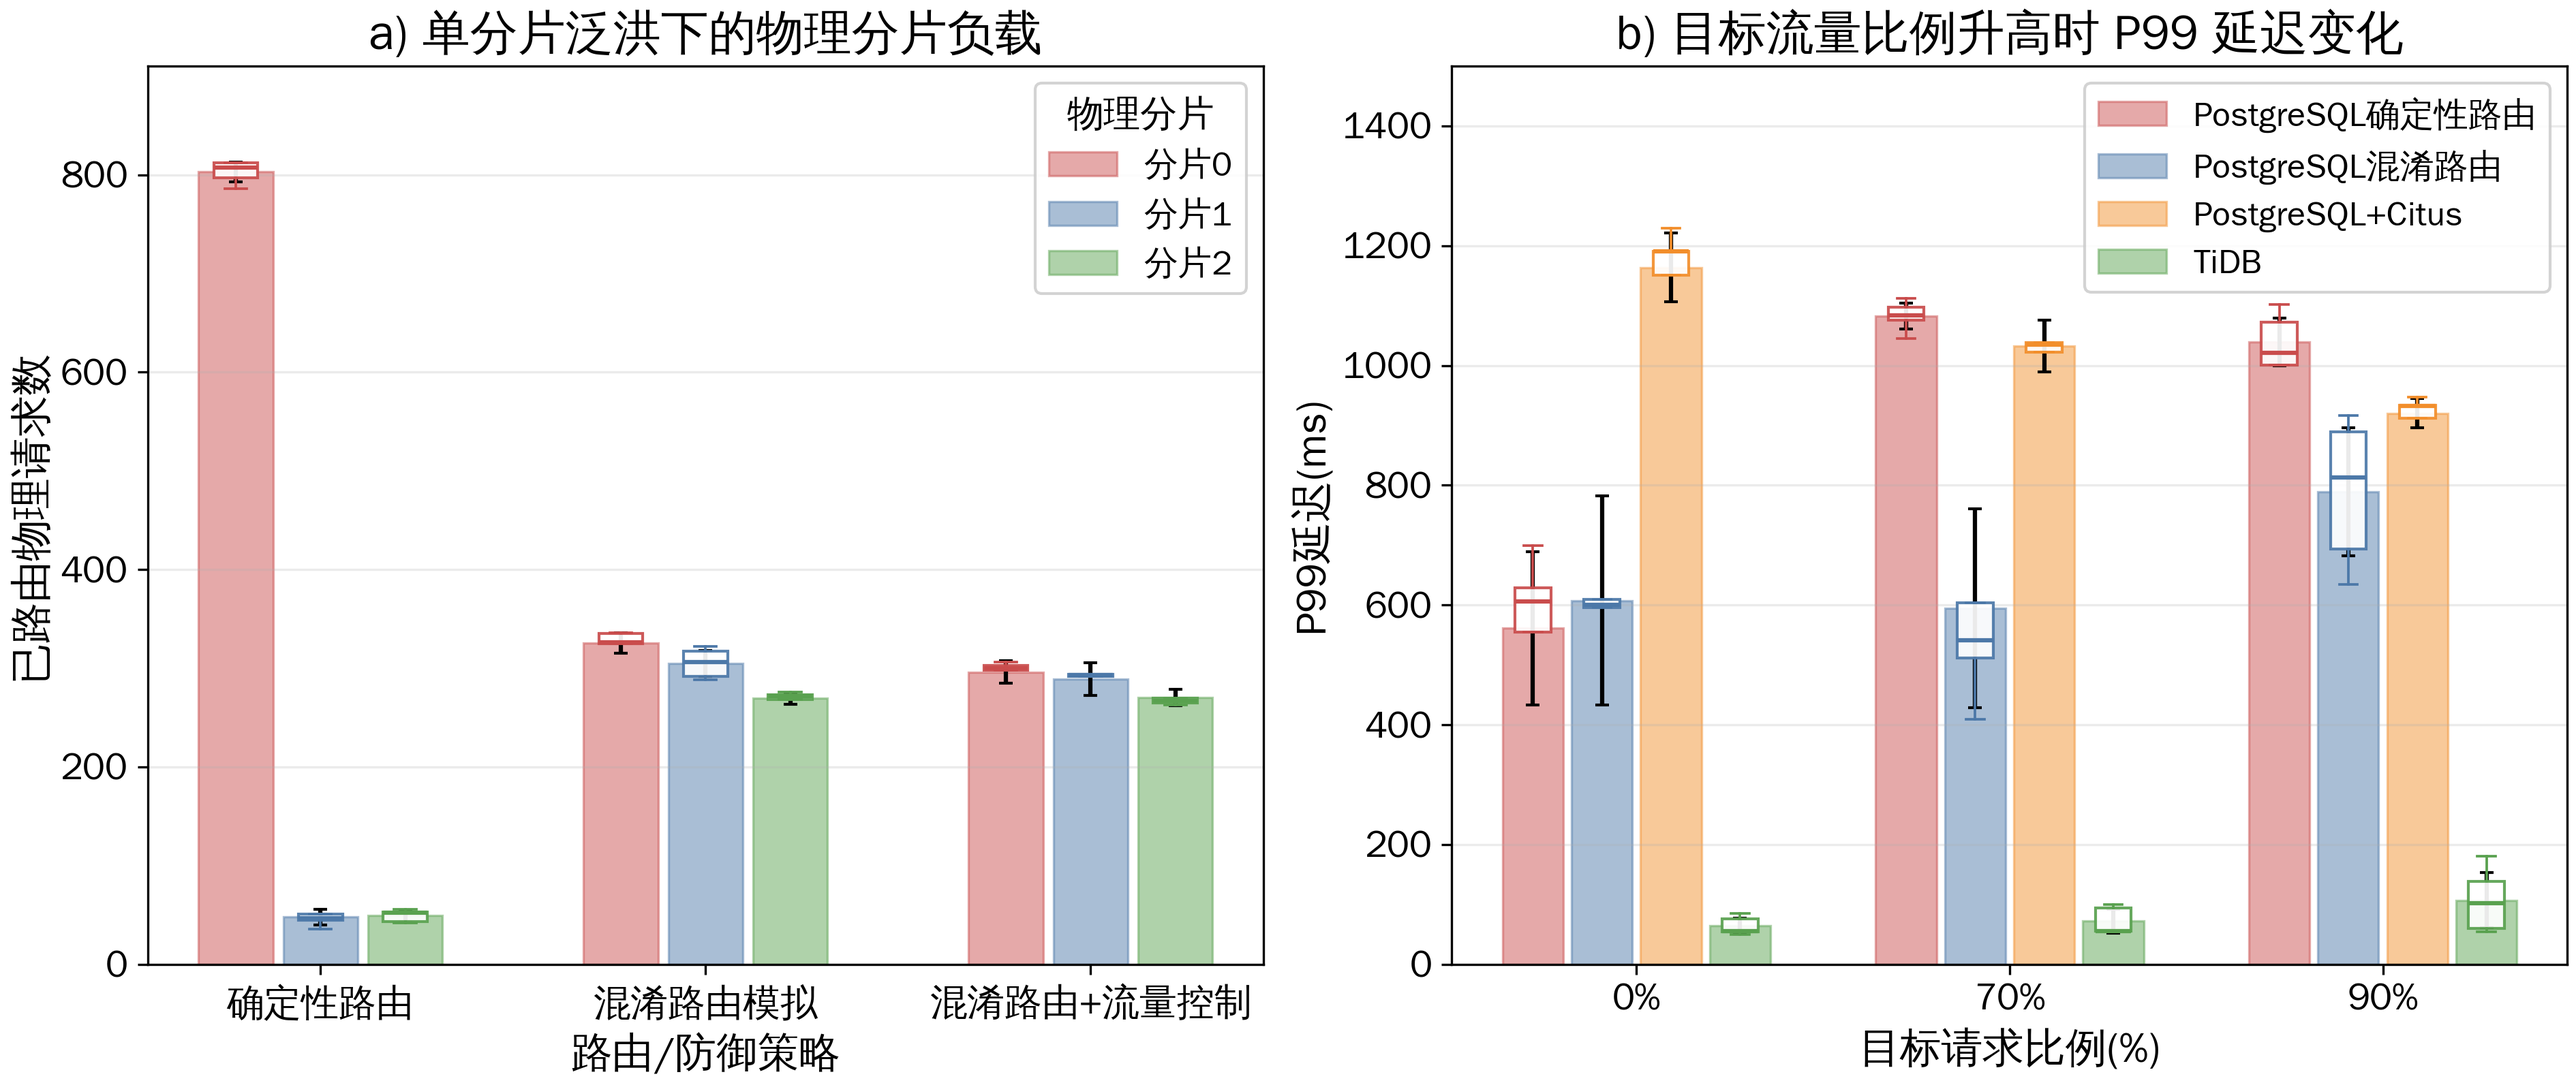
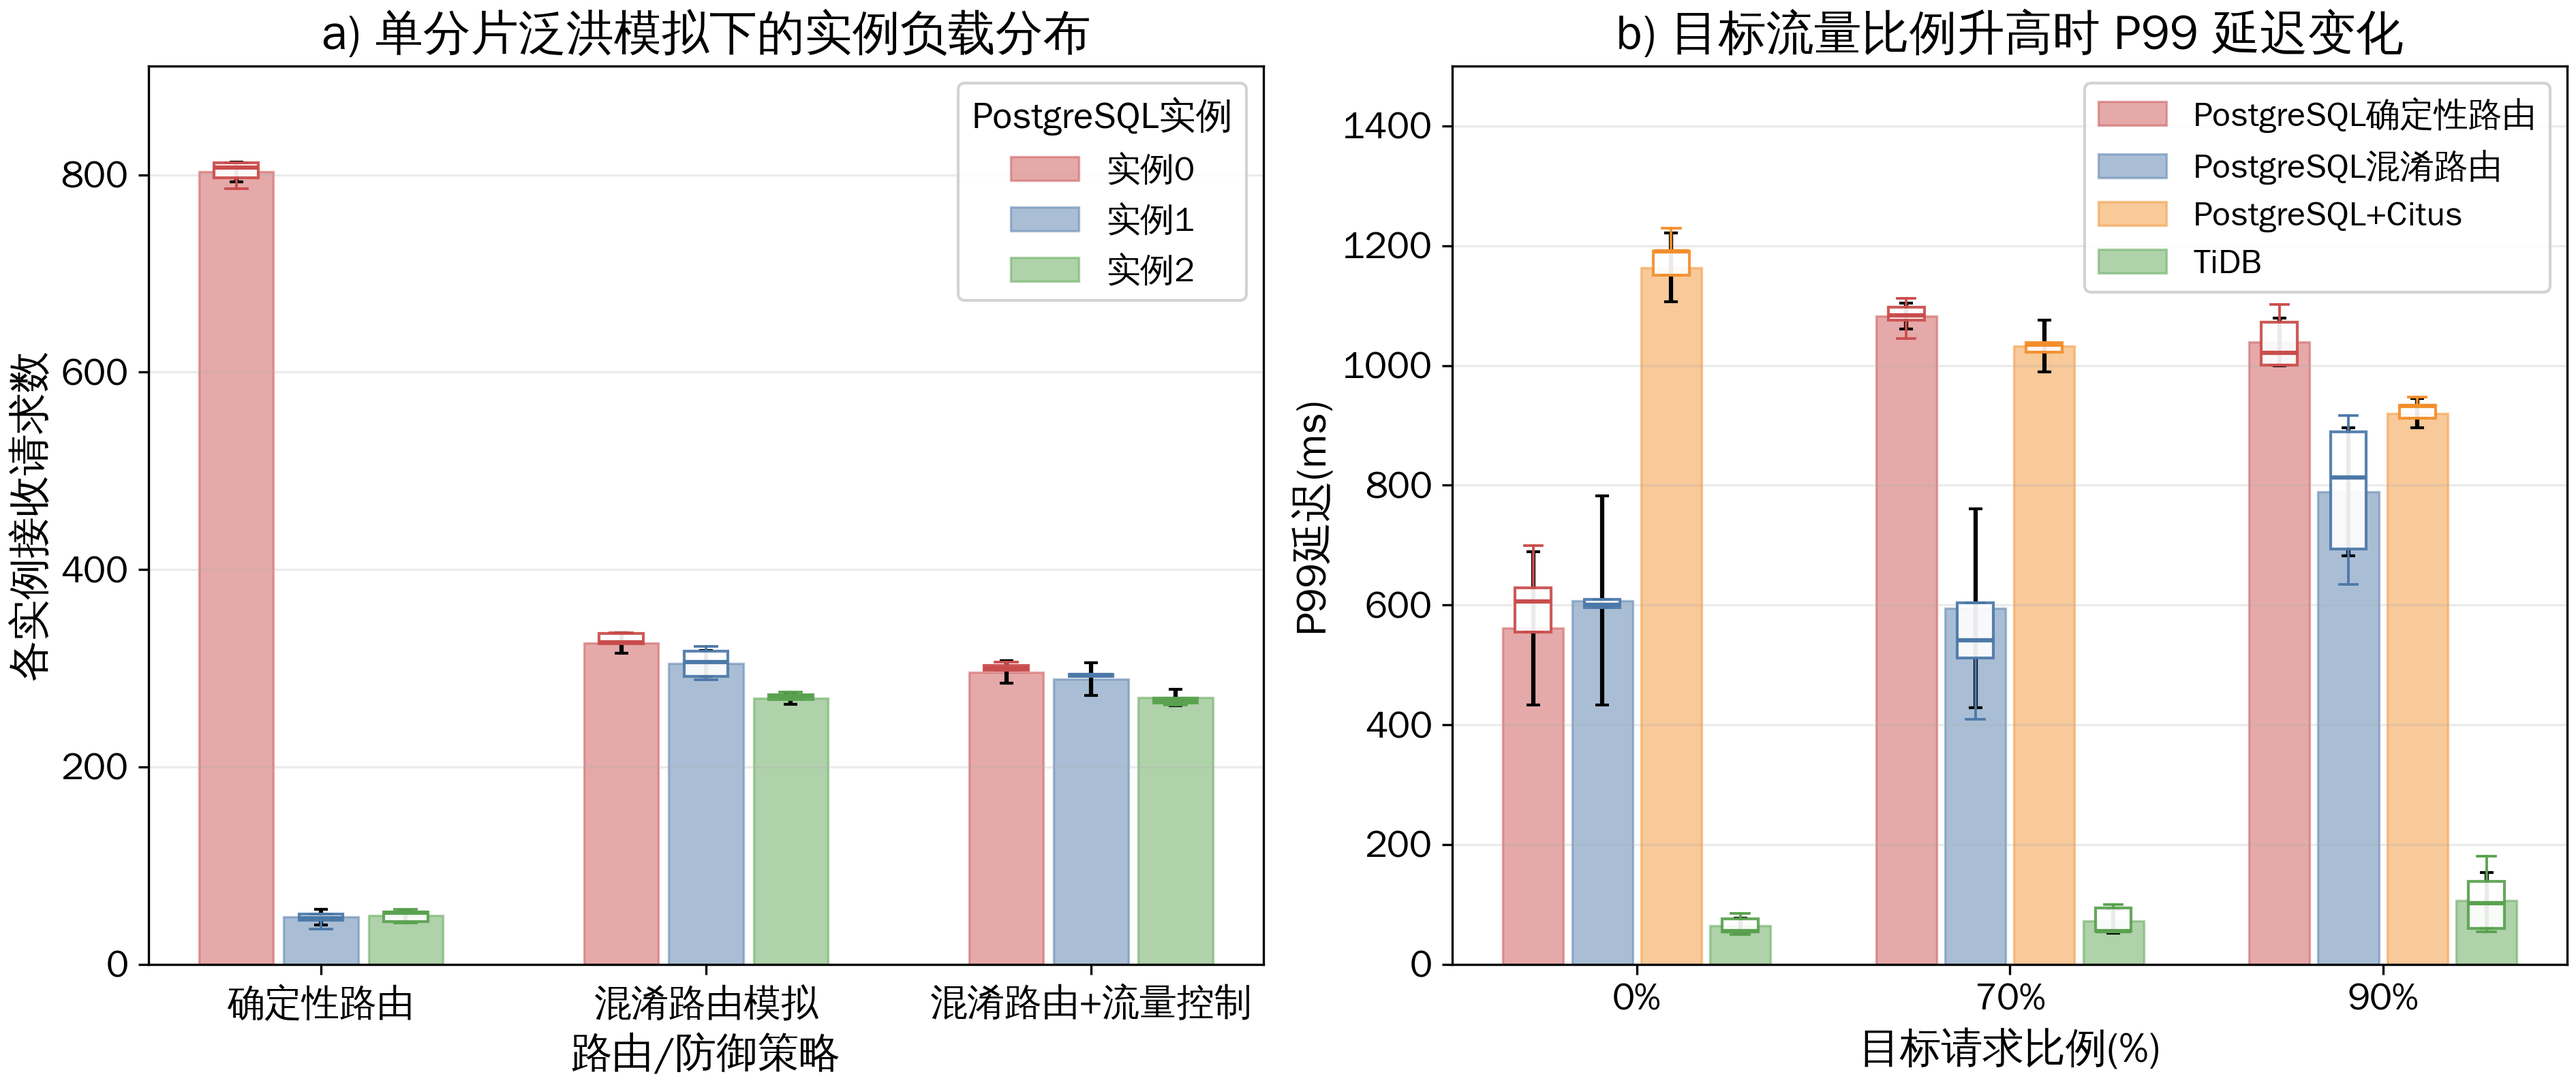
fig

diff --git a/distributed-db-security-experiments/scripts/render_fig9_split_distributed_risks.py b/distributed-db-security-experiments/scripts/render_fig9_split_distributed_risks.py
@@ -138,18 +138,22 @@ def draw_panel_a(ax, requests: pd.DataFrame) -> None:
     data = exp1_shard_load_by_run(requests)
     if data.empty:
         ax.text(0.5, 0.5, "无数据", transform=ax.transAxes, ha="center", va="center")
-        ax.set_title("a) 单分片泛洪下的物理分片负载")
+        ax.set_title("a) 单分片泛洪模拟下的实例负载分布")
         return
+    data = data.copy()
+    data["series"] = data["series"].replace(
+        {"分片0": "实例0", "分片1": "实例1", "分片2": "实例2"}
+    )
     draw_grouped_bar_boxplot(
         ax,
         data,
         groups=["确定性路由", "混淆路由模拟", "混淆路由+流量控制"],
-        series=["分片0", "分片1", "分片2"],
-        colors={"分片0": PALETTE["red"], "分片1": PALETTE["blue"], "分片2": PALETTE["green"]},
-        title="a) 单分片泛洪下的物理分片负载",
+        series=["实例0", "实例1", "实例2"],
+        colors={"实例0": PALETTE["red"], "实例1": PALETTE["blue"], "实例2": PALETTE["green"]},
+        title="a) 单分片泛洪模拟下的实例负载分布",
         xlabel="路由/防御策略",
-        ylabel="已路由物理请求数",
-        legend_title="物理分片",
+        ylabel="各实例接收请求数",
+        legend_title="PostgreSQL实例",
         legend_loc="upper right",
         x_rotation=0,
         y_pad=0.12,
